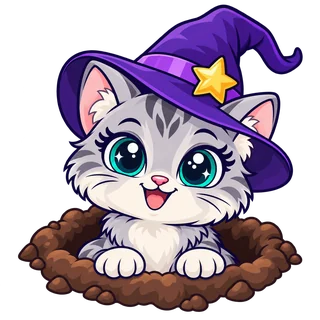
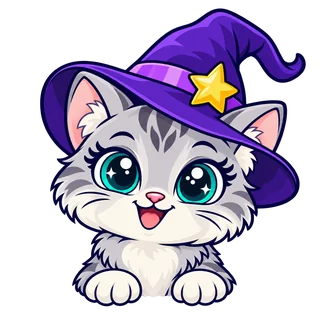
Remove duplicate dirt rings from witch kittens and record Molly production lessons

diff --git a/party/reference/IMAGE-WORK-QUEUE.md b/party/reference/IMAGE-WORK-QUEUE.md
@@ -7,11 +7,15 @@ approved artwork just because older checkpoints had incomplete coverage.
 
 ## Molly Party delivery — in progress
 
-User waived all future Molly Party character approval gates. Self-review and refine new designs; preserve existing approved identities. Eight completed game batches have now been published and checked in game, through `2ad4cda9`: Garden Grow, Dance and Freeze, Wand Shapes, Sock Match, Fairy Hide and Seek, Cupcake Stack, Bubble Pop and Balloon Float. Sprite pipeline per-file physical scaling is published at `5742eea9` / merge `d6a30d12`, with Python and runtime regressions passing.
+The user reaffirmed that Molly Party characters need no approval prompts. Self-review and refine new designs while preserving approved identities.
 
-All six replacement briefs have landed: bed-bounce, prank-troll, opposite-ballet, whoopee-tea, muddy-mayhem, sneaky-dance. The playable fairy union now contains 56 brief poses plus preserved fly. No further generation for the dropped originals; completed assets remain reusable.
+Published and checked game batches now include Garden Grow, Dance and Freeze, Wand Shapes, Sock Match, Fairy Hide and Seek, Cupcake Stack, Bubble Pop, Balloon Float, Fairy Flutter, Unicorn Jump, Ghost Giggles, Kitten Yarn, Trick-or-Treat, Duckling Parade, Mermaid Pearls, Pumpkin Peekaboo, Snowflake Catch, Bed Bounce, Prank the Troll, Rainbow Painter and Sneaky Dance. Ladybug's completed assets are published for reuse. Latest art delivery: `ef7e695c` (Sneaky Dance); Rainbow art `f3865360` and alignment code `4866edfb`; Snowflake/Bed/Prank integrated and pushed through `904cafd0`.
 
-Current ownership: structural agent six playable fairy expansions; performance agent Unicorn/Ghost/Pumpkin/Snowflake then Bed/Prank/Sneaky; tools agent Trick/Duck/Mermaid then Opposite/Whoopee/Muddy; root Kitten/Rainbow, shared integration, browser QA and publishing. Kitten30-frame atlas extracted and reviewed; layered basket and rare fairy kitten generated, final intake pending. Ladybug old batch finished but held for reuse publication.
+Pink Garden Fairy's full playable set is published at `4bfe72df`: 59 poses, 83 body frames and five portraits, with landmarks and optimized assets. Other five fairy expansions remain in progress. The union is the merged 56-pose brief plus preserved fly, clap and hose-spray; this brief applies to the six Molly fairies, not the original Charlie roster.
+
+Current ownership: structural agent Blue/Purple/Yellow playable fairies; performance agent Green/Glimmer playable fairies; tools agent Whoopee Tea, Muddy Mayhem plus six Puppy reuse assets, Ballet/Opposite consistency fixes and three new QA props; root integration, browser QA, batch publication and Pumpkin witch-cat ring removal. Ballet/Opposite art is generated but held for Madame Papillon identity consistency corrections.
+
+Latest sync `904cafd0` includes new QA requests from `6650f180`: dp-mushroom, duckling-golden, mp-ledge and two ring-free witch-cat expressions. All queued. Earlier dropped original briefs are not expanded, but explicitly kept reuse rows remain required. Completed-status edits and archival changes alone do not trigger regeneration.
 
 The older counts/checkpoints below are production history and will be replaced by a final request inventory after delivery.
 

diff --git a/party/tools/sprites/AGENT-PLAYBOOK.md b/party/tools/sprites/AGENT-PLAYBOOK.md
@@ -379,3 +379,16 @@ use measured source-image crops for a lid, and redraw the authored silhouette
 at the same fit/anchor for night effects instead of painting a second differently
 shaped procedural object. Match jellyfish world position to bell centre rather
 than the whole canvas centre; test the landmark through scale, tilt and pulse.
+
+
+### Molly production lessons (2026-10-13)
+
+- Molly character approval prompts are waived by the user. Review native masters and runtime contacts, refine problems, then proceed. Preserve approved identities across every expression: check hair colour, skin tone, wing pattern, outfit and proportions side by side. A matching pose label does not prove character consistency.
+- Movement sheets must include actual alternating strides and contact/pass phases. Four nearly identical airborne poses create a bob, not a walk/run cycle. Stable body scale and ground anchors prevent jitter.
+- Keep full-resolution archival source WebPs. Per-frame physical height (usually240px for Molly bodies) and optimizer `frameScales` retain display scale and landmarks while reducing decoded memory. Check full and optimized decoded RGBA budgets separately; download size alone is insufficient.
+- Build QA contact sheets from the actual final runtime paths. A stale source/background can cause a false geometry report. Check the real game using the Molly IDs (`molly-garden-fairy-*`, `molly-glimmer`) which have playable sizes; original IDs remain NPC sizes.
+- Match attachments to measured generated landmarks only when authored art is loaded; preserve procedural fallback geometry. Keep hats, nail polish, window curtains, mattress contact and emitters on the depicted features.
+- Preserve shared key namespaces. Prank the Troll uses `ptroll-*`; `pt-*` belongs to Puppet Theatre. A requested rename can map a new key to already-reviewed art without regenerating pixels.
+- Exact recolour edits can still drift in contour. For Rainbow Painter, drawing the same colour raster with a grayscale filter before reveal keeps identical silhouettes; authored grey variants remain available as fallback. Never manually paint replacement pixels.
+- Concurrent provenance JSON writes require a lock around read/modify/write; image saves should use atomic rename before runtime inspection. Record exact prompts and native paths immediately.
+- Stage only each finished batch's index/provenance rows and source files. HTML import-map hashes must match staged module content, including after merges. Run shell commit sequences with `set -e` so a missing file cannot silently publish a partial code batch. AppleDouble `._*` files inside `.git/objects/pack` are metadata, not Git objects; remove only those sidecars when they cause pack warnings.
